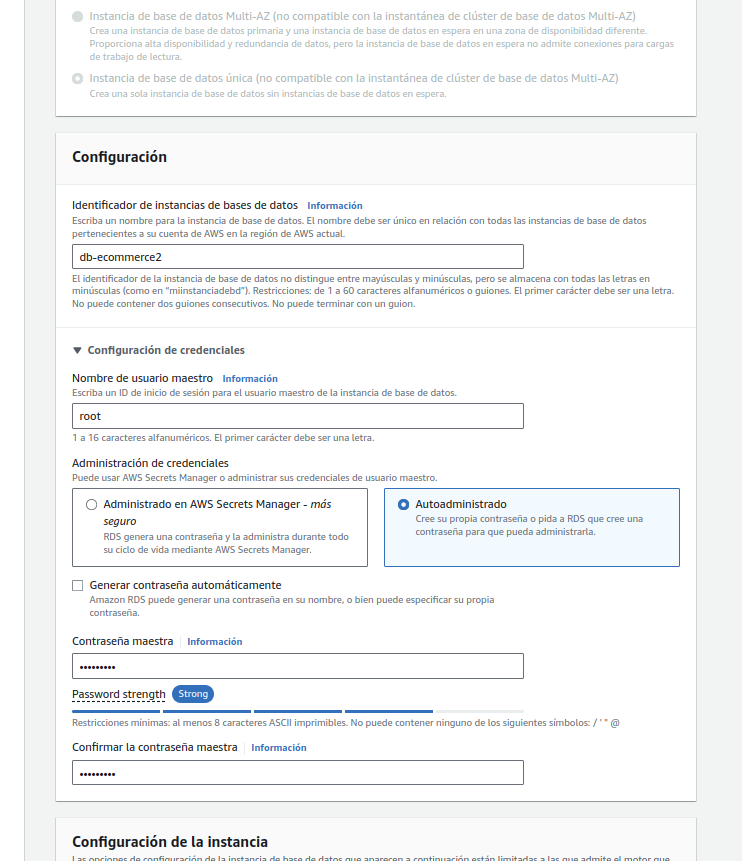
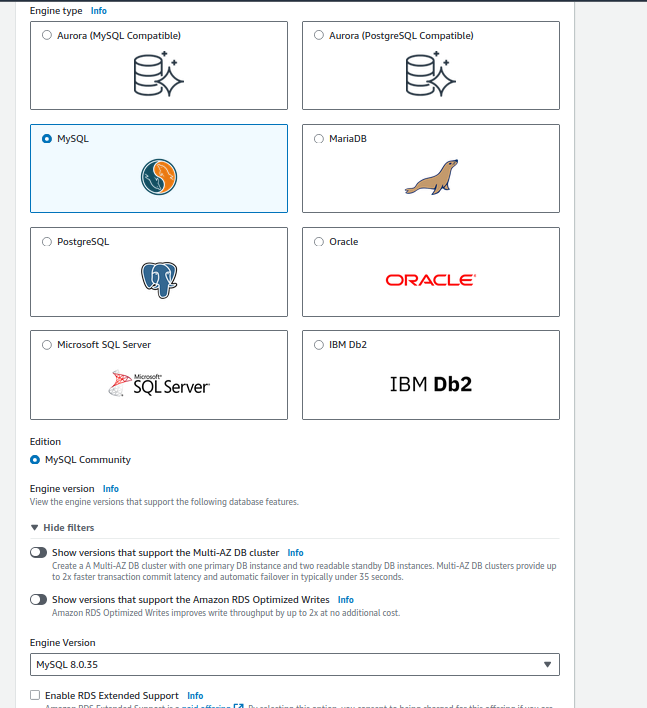
Add properties configuration and readme and images

diff --git a/tutorials/aws-example-ecs/Readme.md b/tutorials/aws-example-ecs/Readme.md
@@ -12,6 +12,9 @@ This project demonstrates how to set up a continuous integration and deployment 
    - Spring Boot
    - Spring Data JPA
    - Openapi (Swagger)
+   - Docker / Dockerfile
+   - GitHub Actions
+
    
 
 
@@ -79,7 +82,7 @@ This project demonstrates how to set up a continuous integration and deployment 
 ![repository_settings](./images/github_security_21.png)
 
 
-- Create Database in AWS , in this case using Mysql Database free tier.
+- **Create Database in AWS , in this case using Mysql Database free tier**.
 
 ![db_1](./images/db-1.png)
 
@@ -87,18 +90,27 @@ This project demonstrates how to set up a continuous integration and deployment 
 
 ![db_3](./images/db-3.png)
 
-Creation databse
+
 ![db_4](./images/db-4.png)
 
 
-- Create a cluster and task using ECS to deploy application using the image located in ECR in this case the URI
+```Creation database name init```
+
+![db_5](./images/db-5.png)
+
+```Database created```
+
+![db_4](./images/db-6.png)
+
+
+- **Create a cluster**
 
 ![cluster_1](./images/cluster-1.png)
 
 ![cluster_2](./images/cluster-2.png)
 
 
-- Create task Role 
+- **Create task Role** 
   
 ![task_role](./images/create-task-role.png)
 
